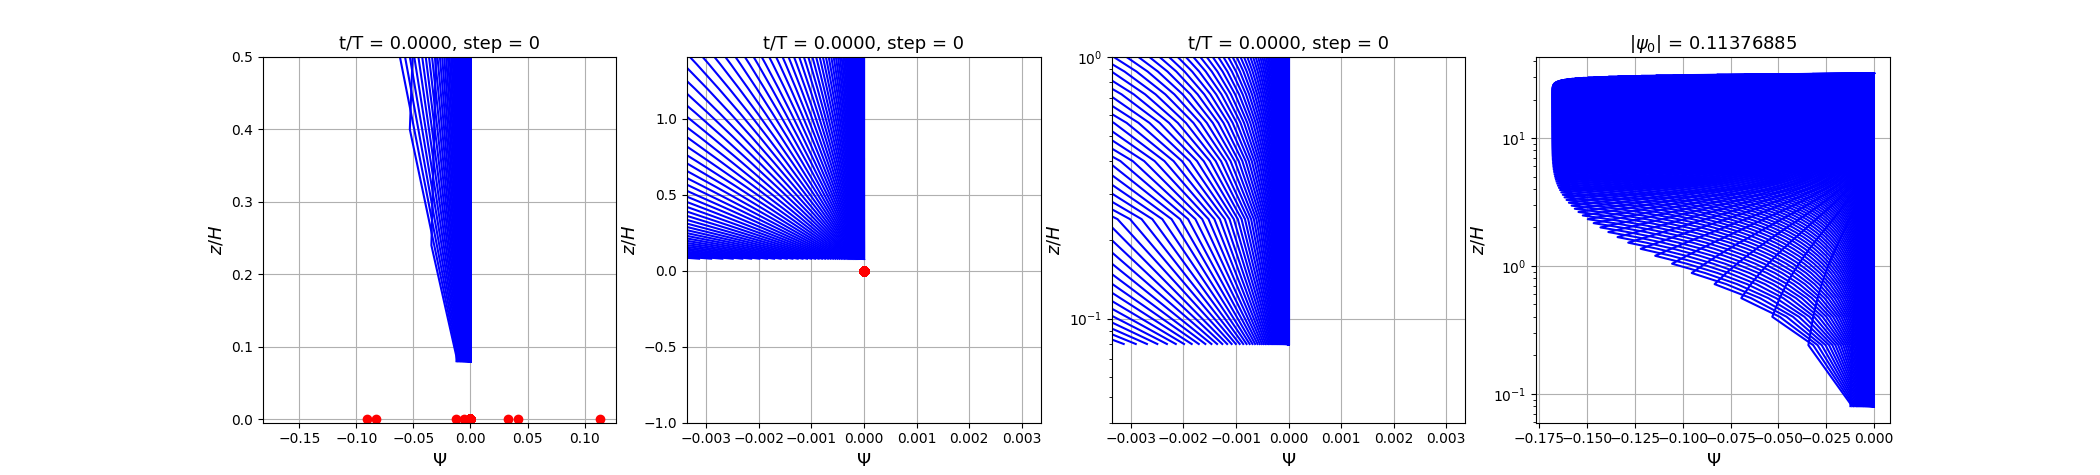
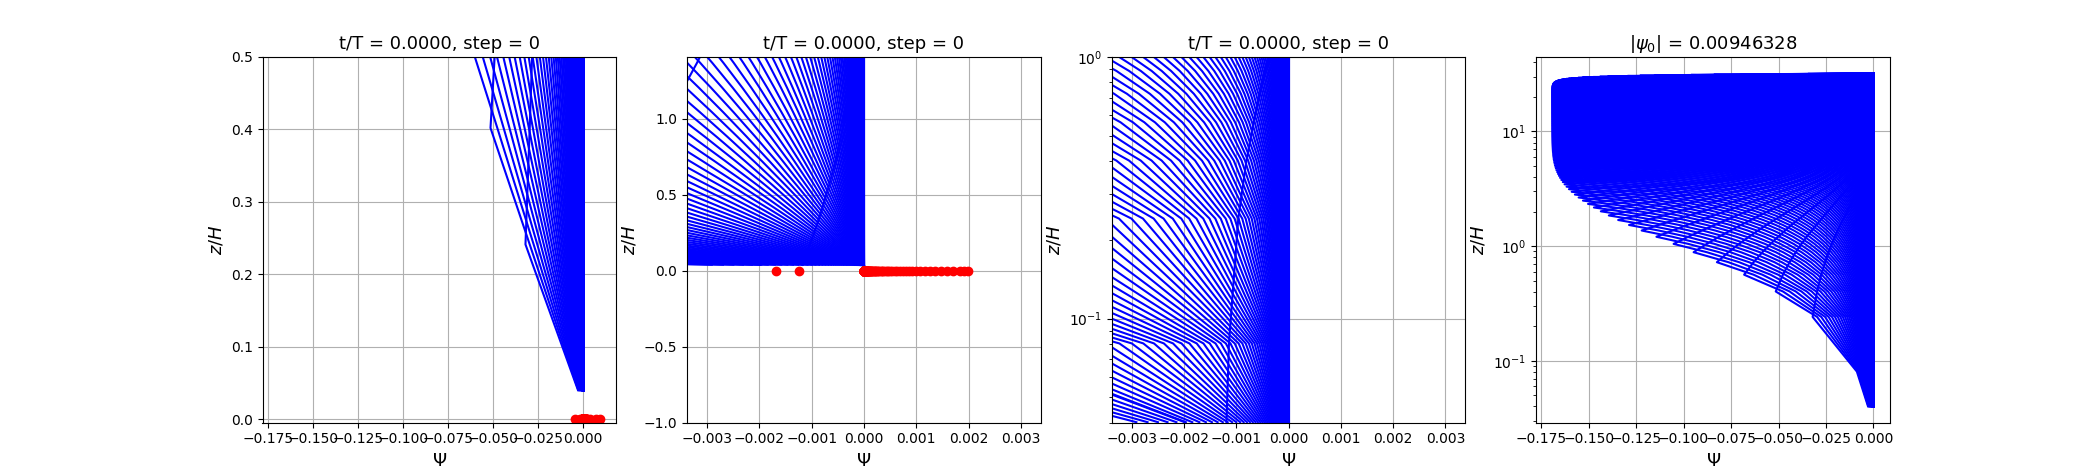
added Thom BC

diff --git a/functions.py b/functions.py
@@ -195,7 +195,7 @@ def rk4( params , time , Phin , count , plot_flag , case_flag ):
             #print(np.shape(Phin))
             #print(np.shape(Phin[0,:]))
             #print(np.shape(params['z']))
-
+            """
             H = params['H']
             plotname = params['phi_path'] +'%i.png' %(count)
             fig = plt.figure(figsize=(21,4.75))
@@ -297,7 +297,7 @@ def rk4( params , time , Phin , count , plot_flag , case_flag ):
             plt.grid()
             plt.title(r"$|\zeta_0|$ = %.8f" %(np.amax(abs(Phin0))),fontsize=13)
             plt.savefig(plotname,format="png"); plt.close(fig);
-            """
+   
   
 
     A = params['A0'] #np.zeros( [int(params['Nz']),int(params['Nz'])] , dtype=complex ) 
@@ -319,10 +319,14 @@ def rk4( params , time , Phin , count , plot_flag , case_flag ):
 
     # get zeta_wall using the psi value from the first cell center, adjacent to the boundary (Thom 1933):
     zeta_wall = ((np.matmul(params['inv_psi'],Phin))[:,0])*2./((params['z'][0])**2.) 
+    # zeta_wall has no k^2 term because -k^2*psi_wall = 0 as psi_wall = 0
+    """
     for j in range(0,params['Nz']): # for each mode:
-        krk[j,0] = krk[j,0] + (params['lBC'] * zeta_wall[j]) # can I remove this from a loop?
-    #check_matrix(krk,'krk')
-
+        krk[j,0] = krk[j,0] + (params['lBC'] * zeta_wall[j]) # can I remove this from a loop? YES!
+    """
+    krk[:,0] = krk[:,0] + (params['lBC'] * zeta_wall)
+    #print(np.linalg.norm(krk))
+    #print(count)
 
   if case_flag == 'base_flow_test':
     b, u, v, bz, uz, vz, bzz, uzz, vzz = rotating_solution( params, time, 2 ) # dimensional
@@ -411,6 +415,12 @@ def grid_choice( grid_flag , Nz , H ):
  # non-dimensional grid 
  if grid_flag == 'uniform': 
    z = np.linspace((H/Nz)/2. , H-(H/Nz)/2., num=Nz, endpoint=True) 
+
+ if grid_flag == 'uniform 2': 
+   z = np.linspace((H/(Nz-1))/2. , H-(H/(Nz-1))/2., num=int(Nz-1), endpoint=True)
+   z1 = z[0]/2.
+   z = np.append(z1,z) 
+   #print(z)
 
  if grid_flag == 'hybrid tanh':
     H1 = H/25.
@@ -1104,12 +1114,22 @@ def diff_matrix( params , lower_BC_flag , upper_BC_flag , diff_order , stencil_s
      l1 = 4./(3.*dz**2.)
      l2 = -1./(12.*dz**2.)
      """
+     """
+     l0, l1, l2, l3, l4 = fornberg_weights(z[0], np.append(-z[0],z[0:4]) ,diff_order)[:,diff_order]
+     #l1 = l1 + l0 # Neumann for dz(phi)=0 at z=0 (sets phi_ghost = phi_0)
+     pzz[0,0:4] = np.array([ 0. , l2 , l3 , l4 ])
+     """
+     l0, l1, l2, l3 = fornberg_weights(z[0], np.append(-z[1],np.append(-z[0],z[0:2])), diff_order)[:, diff_order]
+     l2 = l2 - l1
+     l3 = l3 + l0
+     pzz[0,0:2] = np.array([ l2 , l3 ])    
+     # try with high order inside?
+
    if lower_BC_flag == 'neumann':
      #print('here!')
      # is their a problem here?
      #l0, l1, l2, l3 = fornberg_weights(z[0], np.append(-z[0],z[0:3]) ,diff_order)[:,diff_order]
 
-     """
      l0, l1, l2, l3 = fornberg_weights(z[0], np.append(-z[0],z[0:3]) ,diff_order)[:,diff_order]
      #l1 = l1 + l0 # Neumann for dz(phi)=0 at z=0 (sets phi_ghost = phi_0)
      pzz[0,0:3] = np.array([ l1 + l0 , l2 , l3 ])
@@ -1117,7 +1137,7 @@ def diff_matrix( params , lower_BC_flag , upper_BC_flag , diff_order , stencil_s
      l0, l1, l2, l3, l4 = fornberg_weights(z[0], np.append(-z[0],z[0:4]) ,diff_order)[:,diff_order]
      #l1 = l1 + l0 # Neumann for dz(phi)=0 at z=0 (sets phi_ghost = phi_0)
      pzz[0,0:4] = np.array([ l1 + l0 , l2 , l3 , l4 ]) 
-
+     """
 
      """
      l0, l1, l2, l3, l4, l5, l6, l7, l8, l9, l10, l11, l12, l13, l14, l15 = fornberg_weights(z[0], np.append(-z[0],z[0:15]) ,diff_order)[:,diff_order]

diff --git a/zeta.py b/zeta.py
@@ -55,13 +55,13 @@ ai = np.array([0.475])
 #ai = np.linspace(0.025,0.5,num=20,endpoint=True)
 
 # grid
-grid_flag = 'uniform' #'hybrid cosine' #'  'cosine' # # 
+grid_flag = 'uniform 2' #'hybrid cosine' #'  'cosine' # # 
 wall_BC_flag = 'Thom'
 wall_BC_off_flag = ' ' 
-plot_freq = 0 
-Nz = 300 # 
+plot_freq = 100 
+Nz = 200 # 
 H = 32. # = Hd/dS, non-dimensional grid height
-CFL = 0.5 # 
+CFL = 0.1 # 
 Hd = H*dS # m, dimensional domain height (arbitrary choice)
 z,dz = fn.grid_choice( grid_flag , Nz , H ) # non-dimensional grid
 
@@ -81,8 +81,9 @@ dzz_zeta = np.multiply(dzz_zeta,np.ones(np.shape(dzz_zeta)),dtype=complex) # Che
 #inv_psi = np.multiply(inv_psi,np.ones(np.shape(inv_psi)),dtype=complex)
 lBC = lBC + 0.j
 
-dzz_psi = fn.diff_matrix( grid_params_inv , 'dirchlet' , 'dirchlet' , diff_order=2 , stencil_size=3 ) # CHANGE TO THOM BC?
+dzz_psi = fn.diff_matrix( grid_params_inv , 'thom 2' , 'dirchlet' , diff_order=2 , stencil_size=3 ) # CHANGE TO THOM BC?
 dzz_psi = np.multiply(dzz_psi,np.ones(np.shape(dzz_psi)),dtype=complex)
+# maybe need to get dzz_psi at each step: interpolate from dzz_psi 1 to zeta_wall to get dzz_psi 0?
 
 A0 = np.zeros( [Nz,Nz] , dtype=complex ) # initial propogator matrix 
 
@@ -108,6 +109,7 @@ for i in range(0,Ni):
         Re = Rej[j]
         a = ai[i]
         U = Re * (nu/dS) # Re = U*dS/nu, so ReB=Re/2
+        #print(z[0])
         dt = CFL*(z[0]/Re)  # = CFL*(np.amin(dz)/Re) 
         Nt = int(2.*np.pi/dt)
         freq = int(Nt/100)

diff --git a/verification_tests/discretization_test2.py b/verification_tests/discretization_test2.py
@@ -59,9 +59,18 @@ for n in range(0, Ng):
 
     # test signals:
     #u = np.zeros([Nz,1]); uz = np.zeros([Nz,1]); uzz = np.zeros([Nz,1]);
+    """
     u = np.sin(2.*np.pi/H*z)-z*(2.*np.pi/H)
     uz = 2.*np.pi/H*np.cos(2.*np.pi/H*z)-np.ones(np.shape(z))*(2.*np.pi/H)
     uzz = -np.sin(2.*np.pi/H*z)*(2.*np.pi/H)**2.
+    
+    u = np.cos(2.*np.pi/H*z)
+    uz = -2.*np.pi/H*np.sin(2.*np.pi/H*z)
+    uzz = -np.cos(2.*np.pi/H*z)*(2.*np.pi/H)**2.
+    """
+    u = np.cos(2.*np.pi/H*z)-np.ones(np.shape(z))
+    uz = -2.*np.pi/H*np.sin(2.*np.pi/H*z)
+    uzz = -np.cos(2.*np.pi/H*z)*(2.*np.pi/H)**2.
 
     if n == 4:
         plotname = figure_path + 'solutions.png'
@@ -92,7 +101,7 @@ for n in range(0, Ng):
         plt.close(fig);
 
     # derivatives:
-    uzDa = np.dot( fn.diff_matrix( params , 'open' , 'neumann' , diff_order=1 , stencil_size=3 ) , u ) 
+    uzDa = np.dot( fn.diff_matrix( params , 'neumann' , 'neumann' , diff_order=1 , stencil_size=3 ) , u ) 
     #uzDb = np.dot( fn.partial_z( params , 'dirchlet' , 'neumann' ) , u ) 
     uzDb = np.dot( fn.diff_matrix( params , 'dirchlet' , 'neumann' , diff_order=1 , stencil_size=3 ) , u ) 
     uzzDa = np.dot( fn.diff_matrix( params , 'neumann' , 'neumann' , diff_order=2 , stencil_size=3 ) , u ) 
